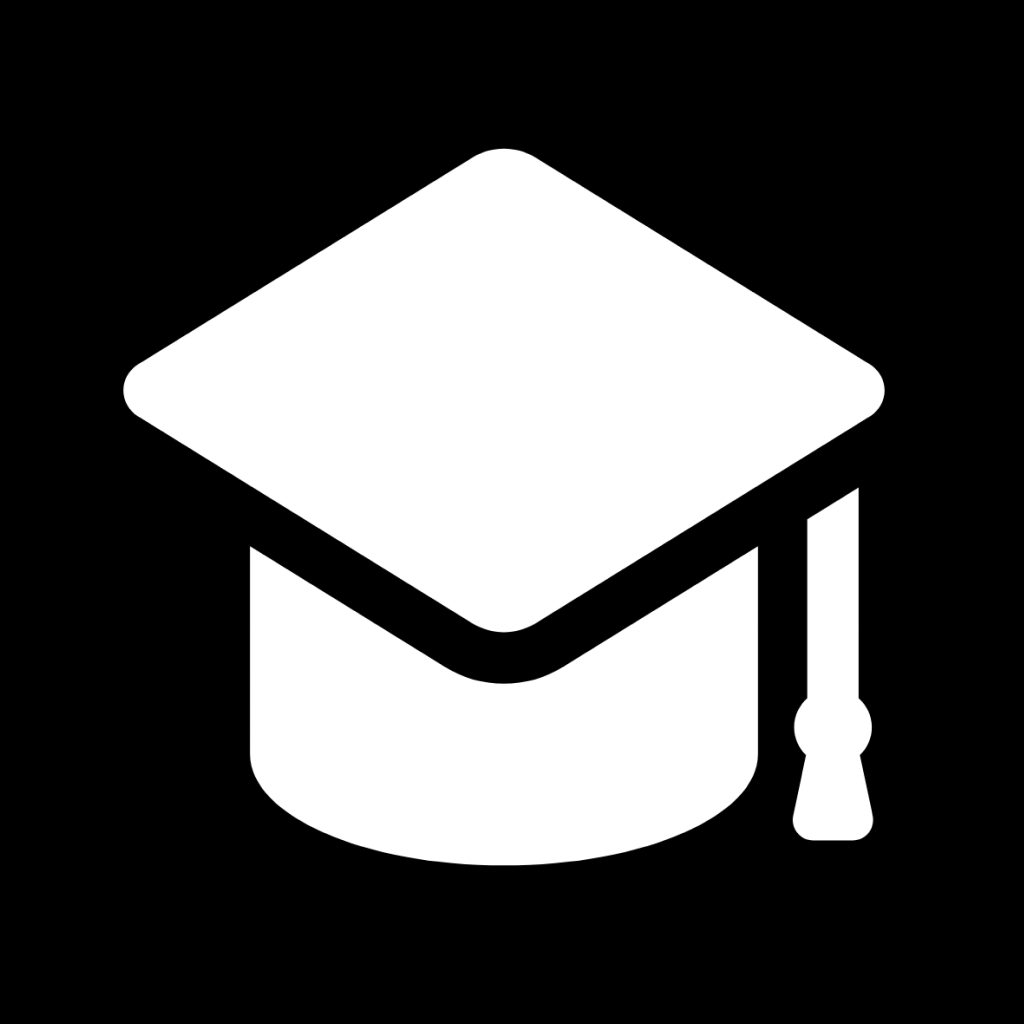
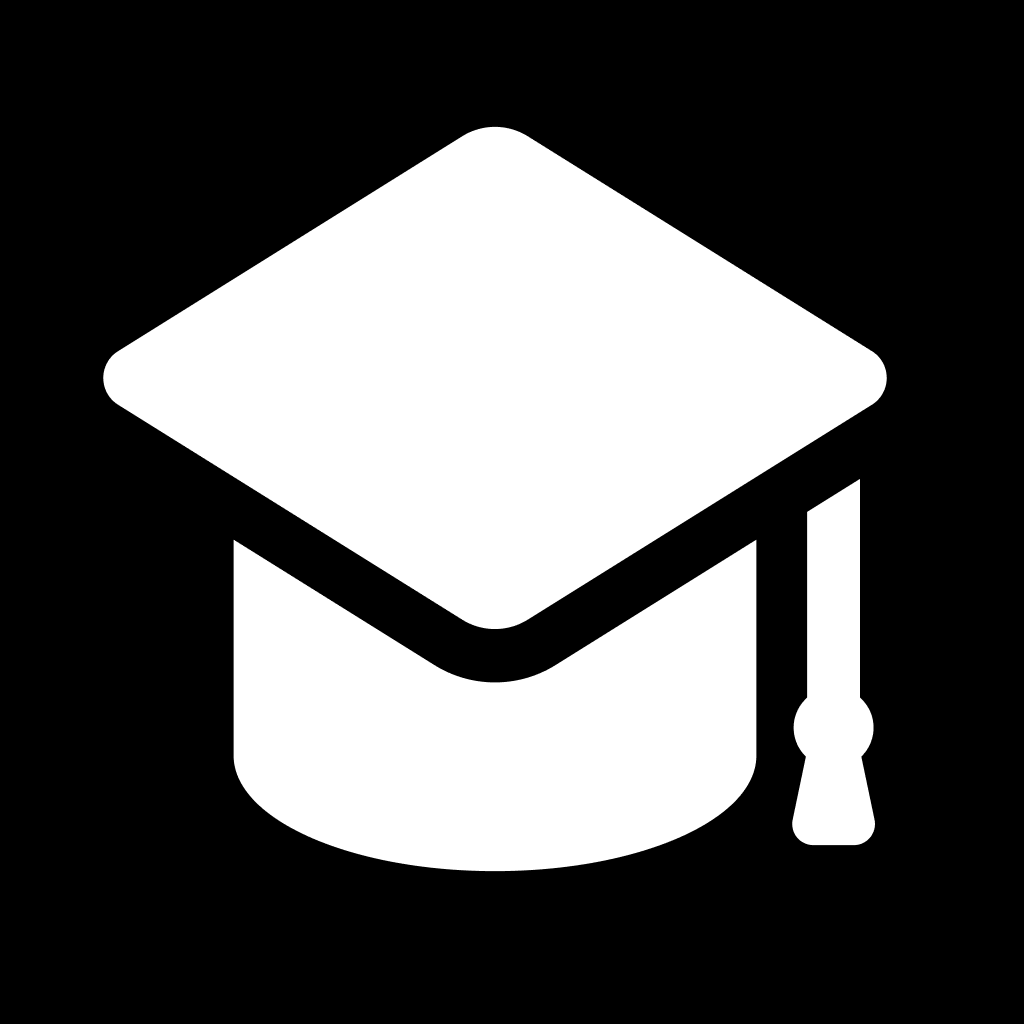
Subiendo respaldo.

diff --git a/components/contexts/ProgressContext.tsx b/components/contexts/ProgressContext.tsx
@@ -1,131 +1,191 @@
-import React, { createContext, useContext, useState, ReactNode } from 'react';
+// ProgressContext.tsx
+import React, { createContext, useContext, useState, useEffect } from 'react';
+import { auth, db } from '../db/db';
+import { collection, doc, onSnapshot, writeBatch, getDocs } from 'firebase/firestore';
 
+import AsyncStorage from '@react-native-async-storage/async-storage';
 
-interface Concept {
-  id: number;
-  name: string;
-  progress: number;
-  unlocked: boolean;
-  completed: boolean;
-}
-
-interface Module {
+type Module = {
   id: number;
   title: string;
   description: string;
   unlocked: boolean;
   completed: boolean;
   concepts: Concept[];
-}
+};
 
-interface ProgressContextType {
+type Concept = {
+  id: number;
+  name: string;
+  progress: number;
+  unlocked: boolean;
+  completed: boolean;
+};
+
+type ProgressContextType = {
   modules: Module[];
-  updateConceptProgress: (conceptId: number, amount: number) => void;
+  loading: boolean;
+  updateConceptProgress: (conceptId: number, amount: number) => Promise<void>;
   toggleModuleExpansion: (id: number) => void;
   expandedModule: number | null;
-}
+  refreshProgress: () => Promise<void>;
+};
 
-const ProgressContext = createContext<ProgressContextType | undefined>(undefined);
-export const ProgressProvider: React.FC<{ children: ReactNode }> = ({ children }) => {
+const ProgressContext = createContext<ProgressContextType>({} as ProgressContextType);
+
+export const ProgressProvider: React.FC<{ children: React.ReactNode }> = ({ children }) => {
+  const [modules, setModules] = useState<Module[]>([]);
   const [expandedModule, setExpandedModule] = useState<number | null>(null);
-  const [modules, setModules] = useState<Module[]>([
-    {
-      id: 1,
-      title: 'Números y Operaciones',
-      description: 'Conceptos básicos.',
-      unlocked: true,
-      completed: false,
-      concepts: [
-        { id: 1, name: 'Suma', progress: 0, unlocked: true, completed: false },
-        { id: 2, name: 'Resta', progress: 0, unlocked: false, completed: false },
-        { id: 3, name: 'Multiplicación', progress: 0, unlocked: false, completed: false },
-        { id: 4, name: 'División', progress: 0, unlocked: false, completed: false },
-        { id: 5, name: 'Examen Integrado', progress: 0, unlocked: false, completed: false },
-      ]
-    },
-    {
-      id: 2,
-      title: 'Álgebra',
-      description: 'Ecuaciones y expresiones.',
-      unlocked: false,
-      completed: false,
-      concepts: [
-        { id: 5, name: 'Ecuaciones lineales', progress: 0, unlocked: false, completed: false },
-        { id: 6, name: 'Factorización', progress: 0, unlocked: false, completed: false },
-      ]
-    },
-    {
-      id: 3,
-      title: 'Geometría',
-      description: 'Figuras y espacios.',
-      unlocked: false,
-      completed: false,
-      concepts: [
-        { id: 7, name: 'Áreas y perímetros', progress: 0, unlocked: false, completed: false },
-        { id: 8, name: 'Volúmenes', progress: 0, unlocked: false, completed: false },
-      ]
-    },
-  ]);
+  const [loading, setLoading] = useState(true);
+  const [currentUser, setCurrentUser] = useState(auth.currentUser);
 
-  
-
-
-  const updateConceptProgress = (conceptId: number, amount: number) => {
-    setModules(prevModules => {
-      return prevModules.map(module => {
-        const updatedConcepts = module.concepts.map(concept => ({ ...concept }));
-        const conceptIndex = updatedConcepts.findIndex(c => c.id === conceptId);
-        if (conceptIndex === -1) return module;
-        const concept = updatedConcepts[conceptIndex];
-        if (!concept.unlocked || concept.completed) return module;
-
-        // Actualizar progreso
-        const newProgress = Math.min(concept.progress + amount, 100);
-        const completed = newProgress === 100;
-
-        // Actualizar concepto
-        updatedConcepts[conceptIndex] = {
-          ...concept,
-          progress: newProgress,
-          completed
-        };
-
-        if (completed && conceptIndex < updatedConcepts.length - 1) {
-          updatedConcepts[conceptIndex + 1].unlocked = true;
-        }
-
-        const allCompleted = updatedConcepts.every(c => c.completed);
-
-        const updatedModule = {
-          ...module,
-          concepts: updatedConcepts,
-          completed: allCompleted
-        };
-
-        if (allCompleted) {
-          const nextModuleIndex = prevModules.findIndex(m => m.id === module.id) + 1;
-          if (nextModuleIndex < prevModules.length) {
-            prevModules[nextModuleIndex].unlocked = true;
-            prevModules[nextModuleIndex].concepts[0].unlocked = true;
-          }
-        }
-
-        return updatedModule;
-      });
+  useEffect(() => {
+    const authUnsubscribe = auth.onAuthStateChanged(user => {
+      setCurrentUser(user);
+      if (!user) {
+        setModules([]);
+        setLoading(false);
+      }
     });
+
+    return () => authUnsubscribe();
+  }, []);
+
+  useEffect(() => {
+    let unsubscribe: () => void;
+
+    const loadProgress = async () => {
+      if (!currentUser?.uid) {
+        setLoading(false);
+        return;
+      }
+
+      setLoading(true);
+      
+      try {
+        const modulesRef = collection(db, 'users', currentUser.uid, 'modules');
+        
+        unsubscribe = onSnapshot(modulesRef, (snapshot) => {
+          const modulesData: Module[] = [];
+          snapshot.forEach((doc) => {
+            modulesData.push(doc.data() as Module);
+          });
+          setModules(modulesData.sort((a, b) => a.id - b.id));
+          setLoading(false);
+        });
+
+        // Sincronizar con AsyncStorage
+        await AsyncStorage.setItem('userData', JSON.stringify({
+          uid: currentUser.uid,
+          email: currentUser.email
+        }));
+
+      } catch (error) {
+        console.error('Error loading progress:', error);
+        setLoading(false);
+      }
+    };
+
+    loadProgress();
+
+    return () => {
+      if (unsubscribe) unsubscribe();
+    };
+  }, [currentUser?.uid]);
+
+  const updateConceptProgress = async (conceptId: number, amount: number) => {
+    if (!currentUser?.uid) return;
+
+    const batch = writeBatch(db);
+    let shouldUpdate = false;
+
+    const updatedModules = modules.map(module => {
+      const conceptIndex = module.concepts.findIndex(c => c.id === conceptId);
+      if (conceptIndex === -1) return module;
+
+      const updatedConcepts = [...module.concepts];
+      const concept = updatedConcepts[conceptIndex];
+      
+      if (!concept.unlocked || concept.completed) return module;
+
+      // Actualizar progreso
+      const newProgress = Math.min(concept.progress + amount, 100);
+      const completed = newProgress === 100;
+      
+      updatedConcepts[conceptIndex] = {
+        ...concept,
+        progress: newProgress,
+        completed
+      };
+
+      // Desbloquear siguiente concepto
+      if (completed && conceptIndex < updatedConcepts.length - 1) {
+        updatedConcepts[conceptIndex + 1].unlocked = true;
+      }
+
+      // Actualizar módulo
+      const moduleRef = doc(db, 'users', currentUser.uid, 'modules', module.id.toString());
+      batch.update(moduleRef, {
+        concepts: updatedConcepts,
+        completed: updatedConcepts.every(c => c.completed)
+      });
+
+      if (updatedConcepts.every(c => c.completed)) {
+        const nextModule = modules.find(m => m.id === module.id + 1);
+        if (nextModule) {
+          const nextModuleRef = doc(db, 'users', currentUser.uid, 'modules', nextModule.id.toString());
+          batch.update(nextModuleRef, {
+            unlocked: true,
+            concepts: nextModule.concepts.map((c, i) => 
+              i === 0 ? { ...c, unlocked: true } : c
+            )
+          });
+        }
+      }
+
+      shouldUpdate = true;
+      return { ...module, concepts: updatedConcepts };
+    });
+
+    if (shouldUpdate) {
+      try {
+        await batch.commit();
+        setModules(updatedModules);
+      } catch (error) {
+        console.error('Error updating progress:', error);
+      }
+    }
   };
 
   const toggleModuleExpansion = (id: number) => {
     setExpandedModule(prev => (prev === id ? null : id));
   };
 
+  const refreshProgress = async () => {
+    if (!currentUser?.uid) return;
+    
+    try {
+      const modulesRef = collection(db, 'users', currentUser.uid, 'modules');
+      const snapshot = await getDocs(modulesRef);
+      const modulesData: Module[] = [];
+      snapshot.forEach(doc => modulesData.push(doc.data() as Module));
+      setModules(modulesData.sort((a, b) => a.id - b.id));
+    } catch (error) {
+      console.error('Error refreshing progress:', error);
+    }
+  };
+
   return (
-    <ProgressContext.Provider value={{
-      modules,
-      updateConceptProgress,
-      toggleModuleExpansion,
-      expandedModule
-    }}>
+    <ProgressContext.Provider
+      value={{
+        modules,
+        loading,
+        updateConceptProgress,
+        toggleModuleExpansion,
+        expandedModule,
+        refreshProgress
+      }}
+    >
       {children}
     </ProgressContext.Provider>
   );

diff --git a/components/LoginForm.tsx b/components/LoginForm.tsx
@@ -362,10 +362,10 @@ const LoginForm: React.FC = () => {
                   ]}
                   onPress={handleLogin}
                   activeOpacity={0.8}
-                  disabled={!isFormValid || isProcessing} // Deshabilitar también durante el procesamiento
+                  disabled={!isFormValid || isProcessing} 
                 >
                   <Text style={[styles.primaryButtonText, { fontFamily: 'Din-Round' }]}>
-                    REGISTRARSE
+                  INGRESAR
                   </Text>
                 </TouchableOpacity>
         </View>

diff --git a/components/registerForm.tsx b/components/registerForm.tsx
@@ -236,6 +236,7 @@ const RegisterForm: React.FC = () => {
           email: email,
           firstname: firstname,
           secondname: secondname,
+          password: password,
           createdAt: new Date()
         });
 
@@ -284,7 +285,6 @@ const RegisterForm: React.FC = () => {
         await batch.commit();
 
 
-        // 7. Limpiar formulario y navegar
         showSuccess('Usuario registrado exitosamente.');
         setEmail('');
         setPassword('');
